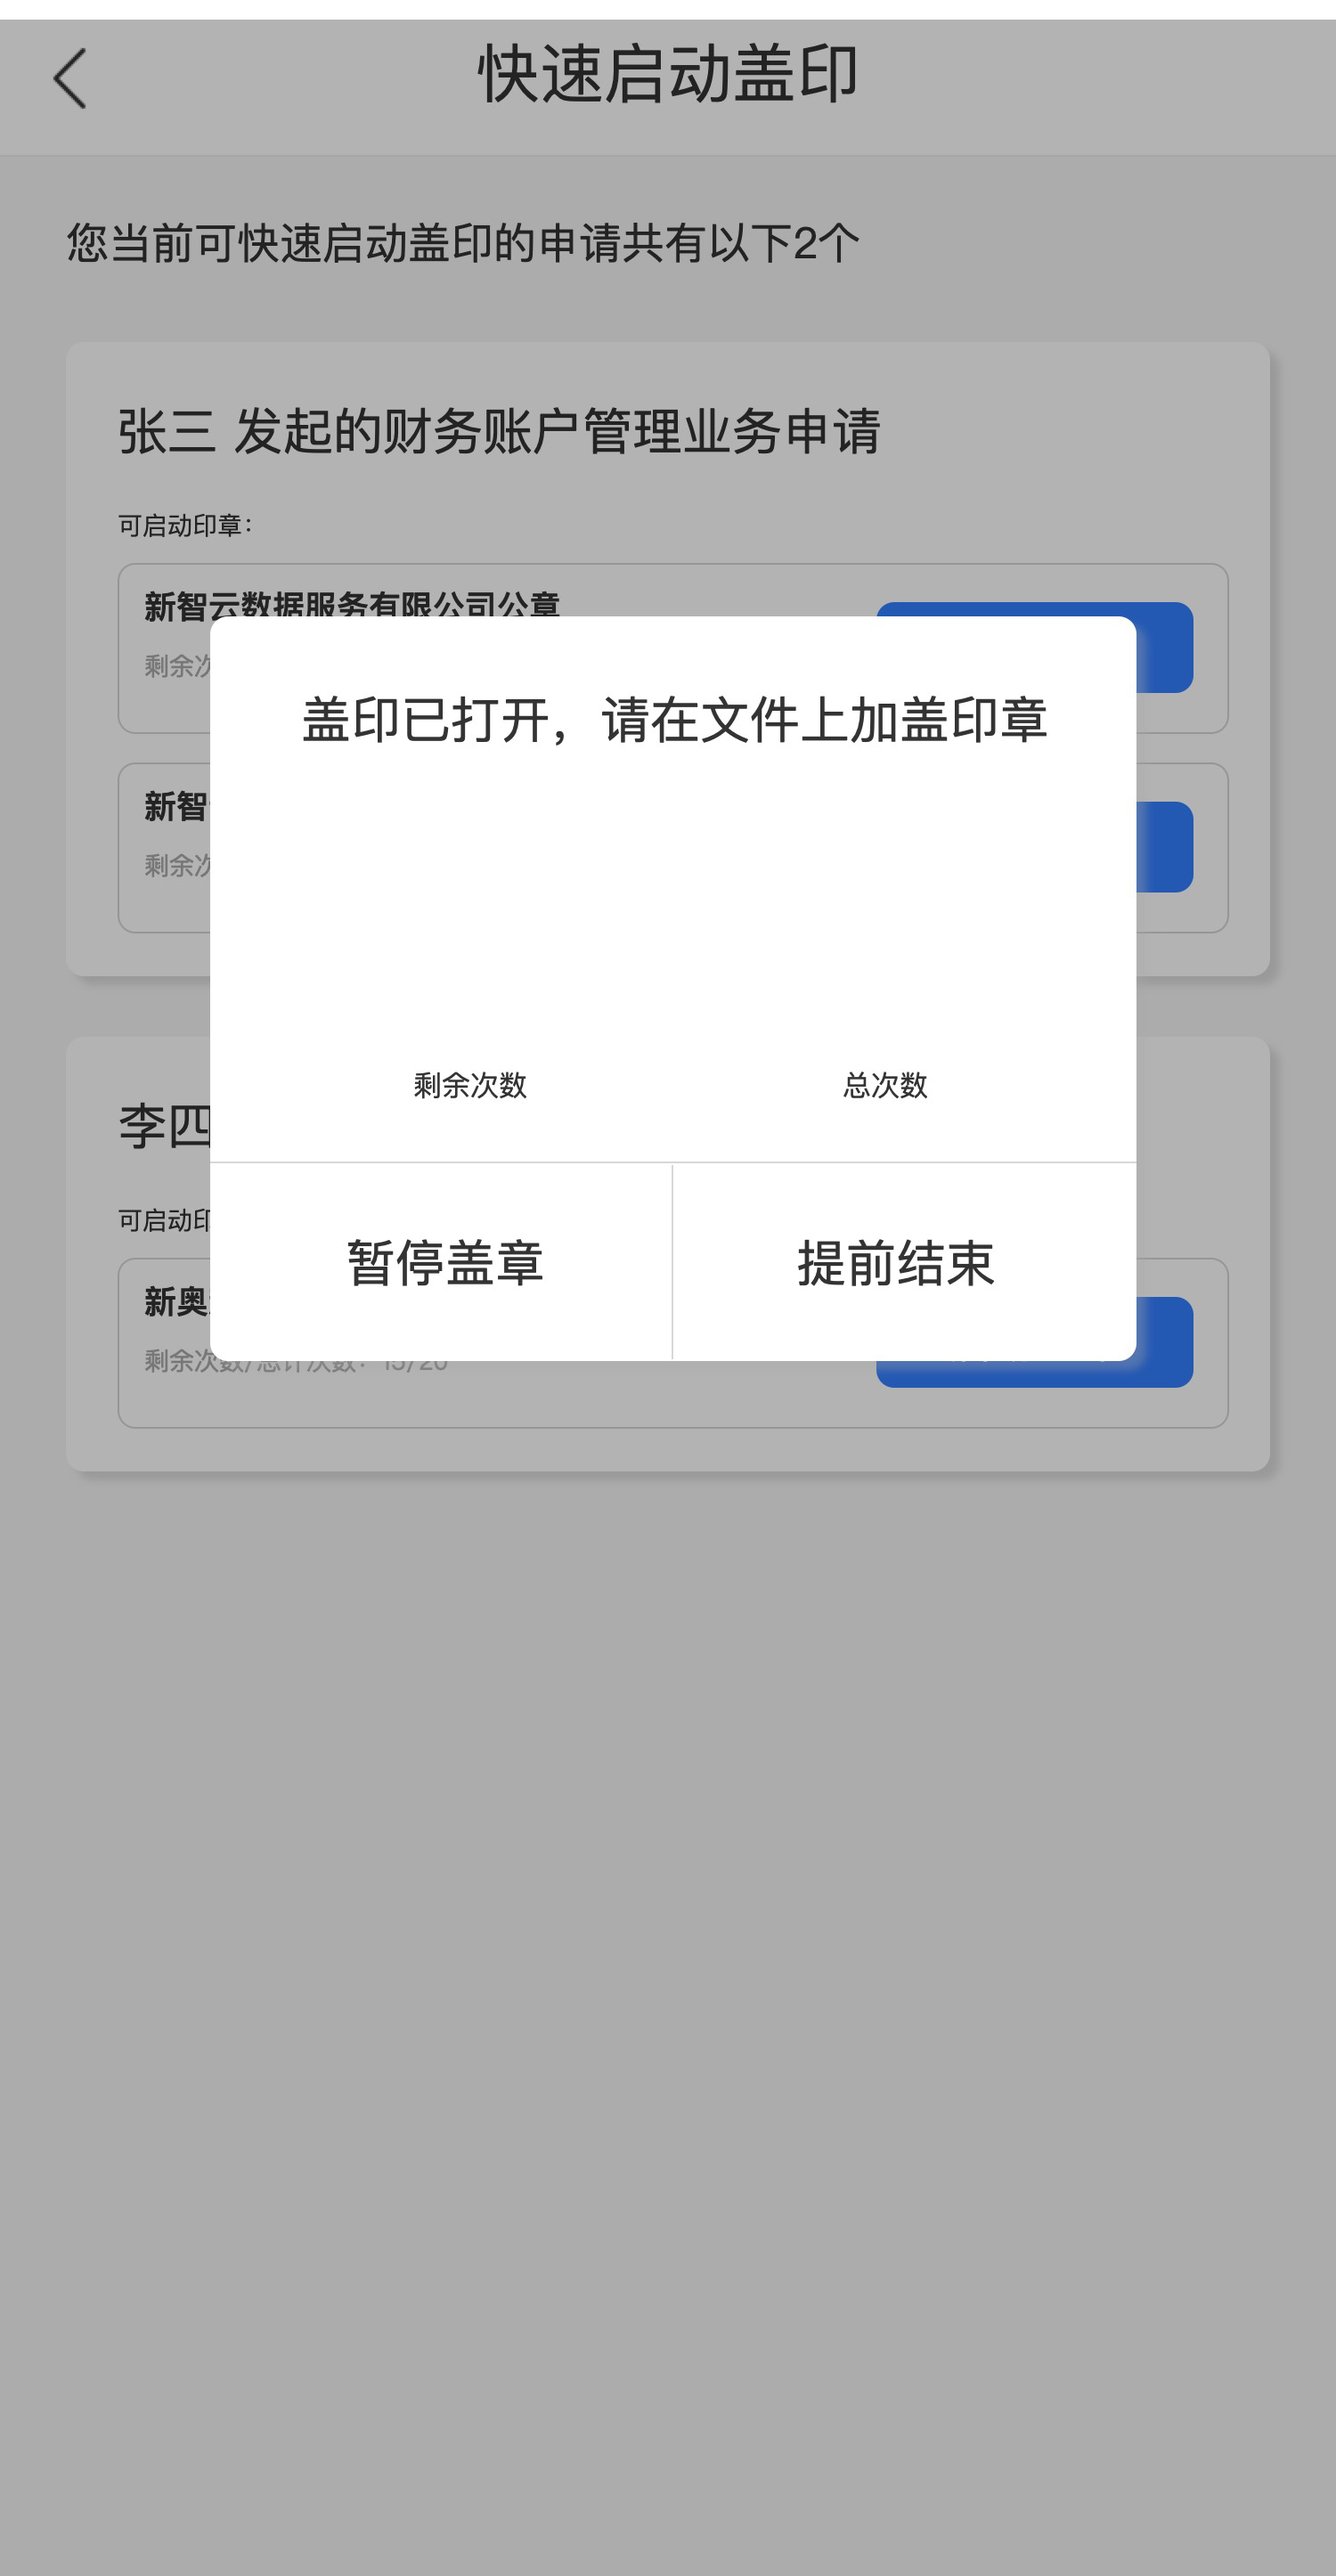
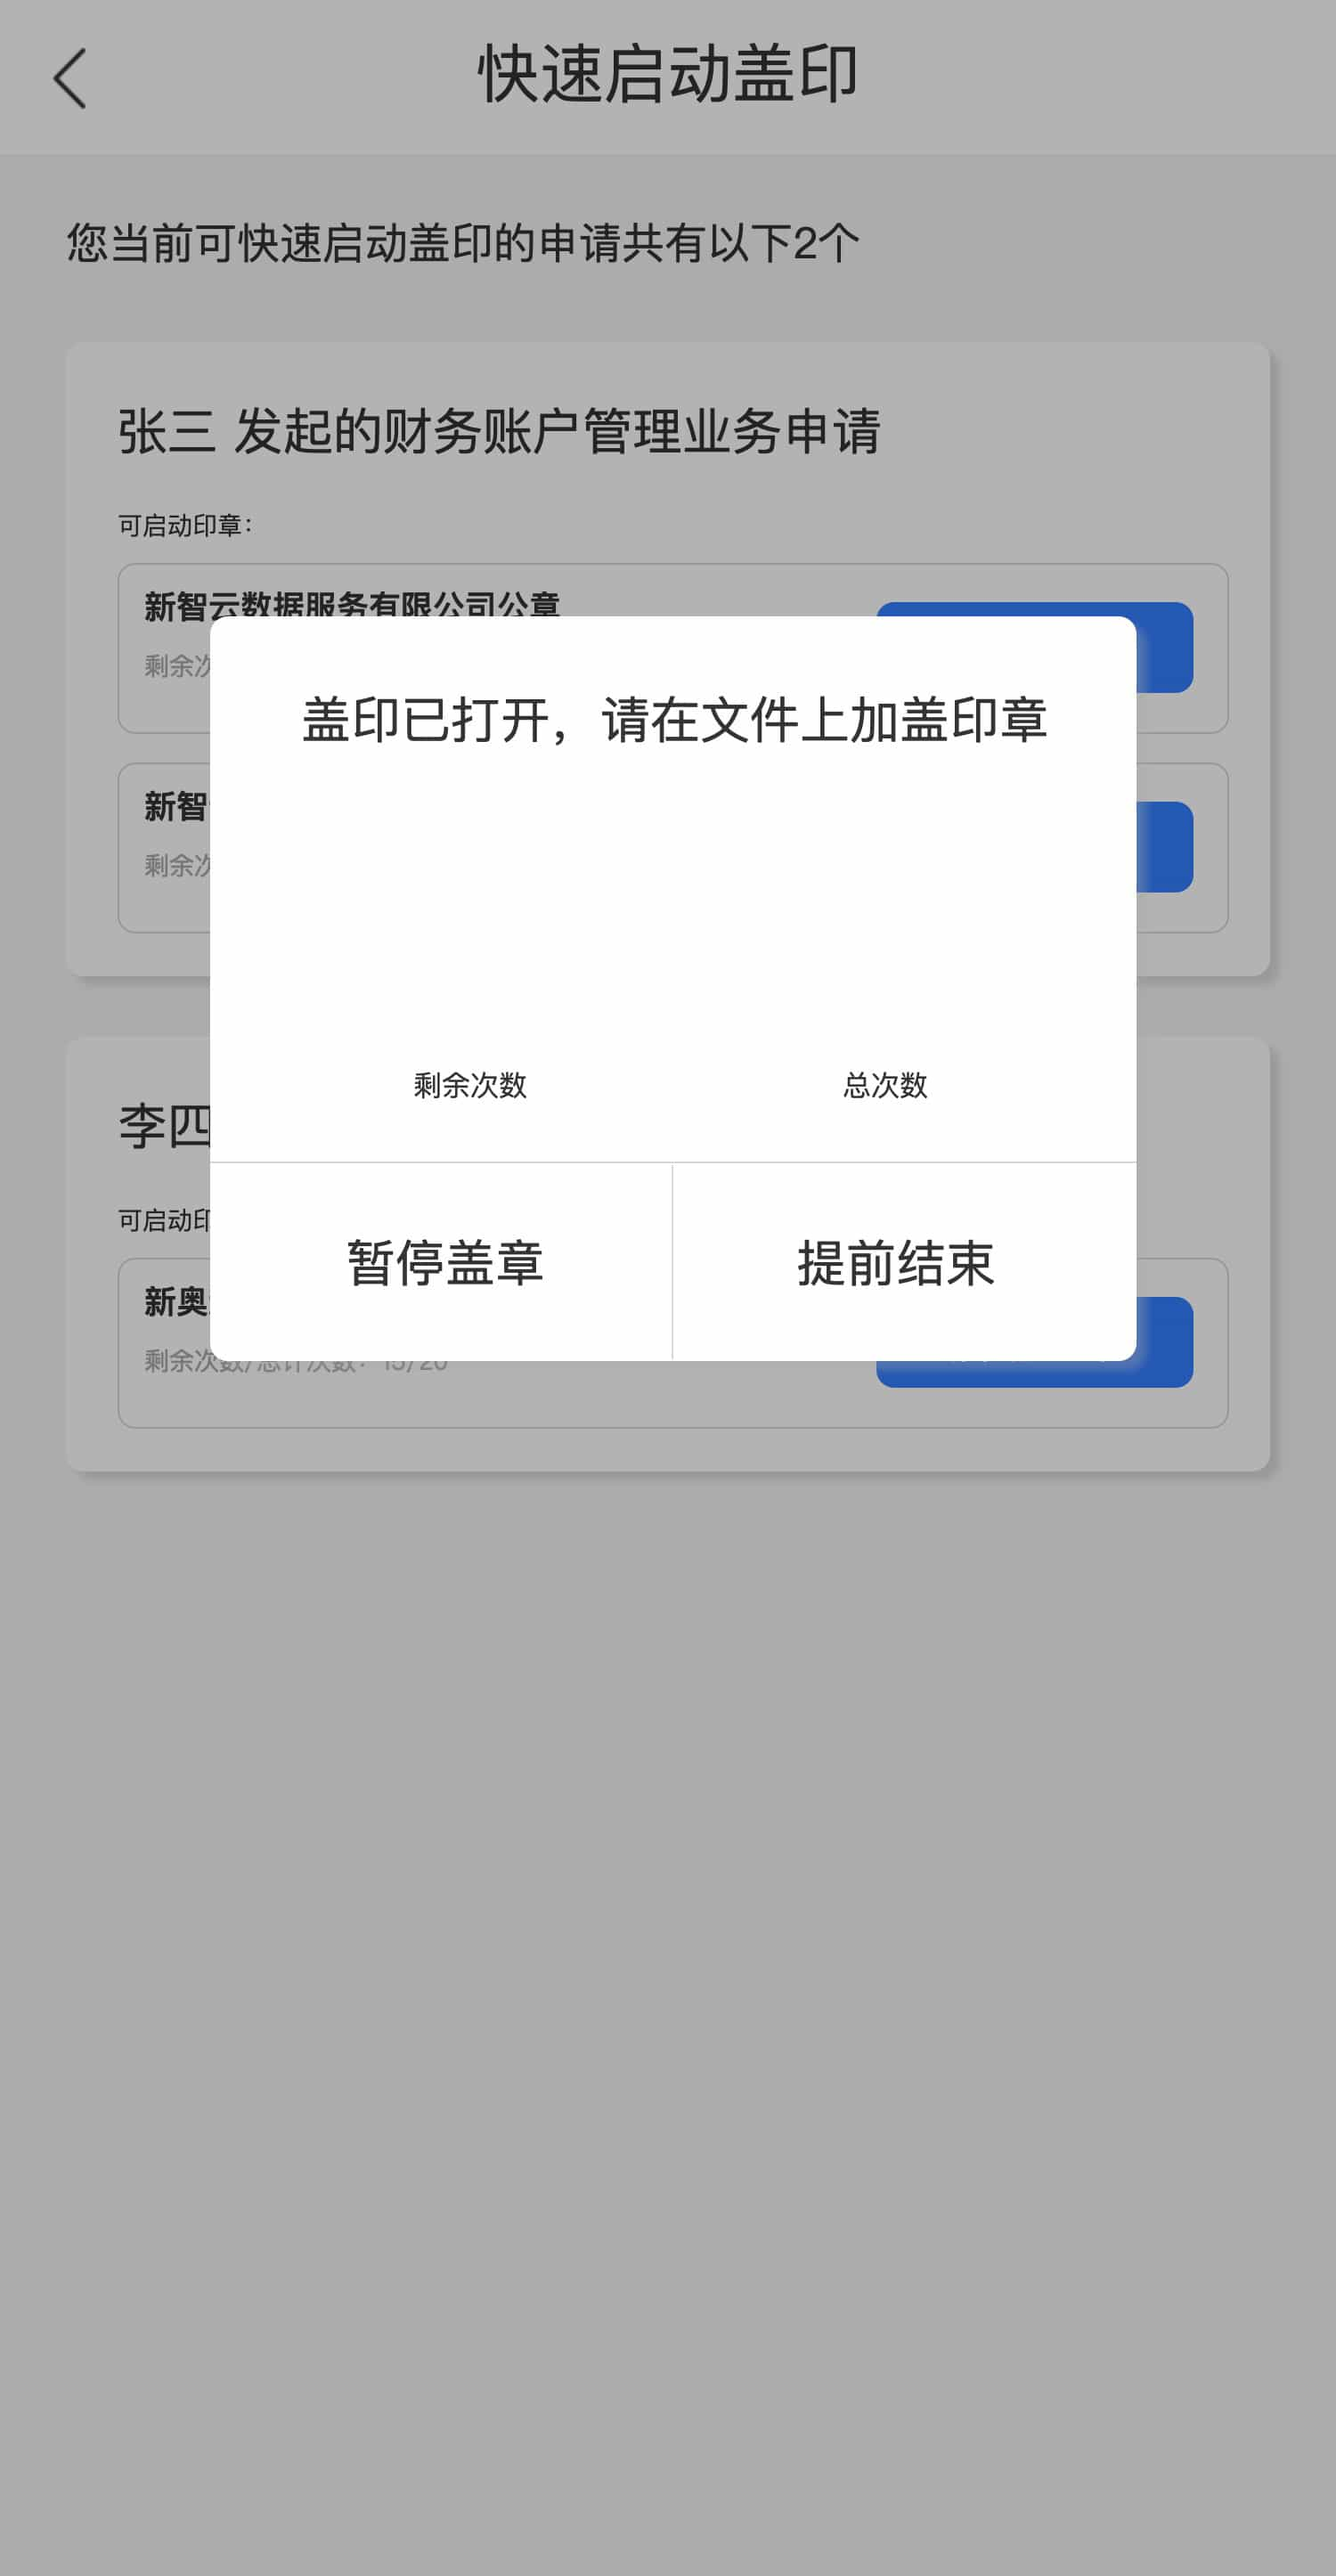
修改图

Changed region(s): [[0.0, 0.0, 1.0, 0.0311]]

diff --git a/src/component/H5GuideMain2/index.scss b/src/component/H5GuideMain2/index.scss
@@ -4,20 +4,19 @@
 
 #gaizhang{
   position: fixed;
-  top: 60%;
+  top: 0.9rem;
   right: 0;
   z-index: 999999;
-  width: 4rem;
-  height: 1.5rem;
+  width: 3.8rem;
+  height: 1.43rem;
   border-radius: 0.75rem 0 0 0.75rem;
   background-color: #fff;
   color: #fff;
   .gaizhang_img {
     position: absolute;
-    left: 0;
-    top: 0;
-    width: 1.2rem;
-    margin-left: 0.25rem;
+    right: 2.59rem;
+    top: 0.04rem;
+    width: 1rem;
     &:active{
       display: inline-block;
       vertical-align: middle;
@@ -30,15 +29,8 @@
       transition-property: transform;
       -webkit-transition-timing-function: ease-out;
       transition-timing-function: ease-out;
-
-    // margin: 0.4em;
-    // padding: 1em;
-    // cursor: pointer;
-    // background: #e1e1e1;
-    // text-decoration: none;
-    color: #666;
-    -webkit-tap-highlight-color: rgba(0, 0, 0, 0);
-    -webkit-font-smoothing: antialiased;
+      -webkit-tap-highlight-color: rgba(0, 0, 0, 0);
+      -webkit-font-smoothing: antialiased;
     }
   }
   // .all_number{
@@ -54,8 +46,8 @@
 }
 #zhang_popover{
   position: fixed;
-  top: 60%;
-  right: -0.19rem;
+  top: 1rem;
+  right: -0.09rem;
   z-index: 999999;
   width: 4rem;
   height: 1.4rem;
